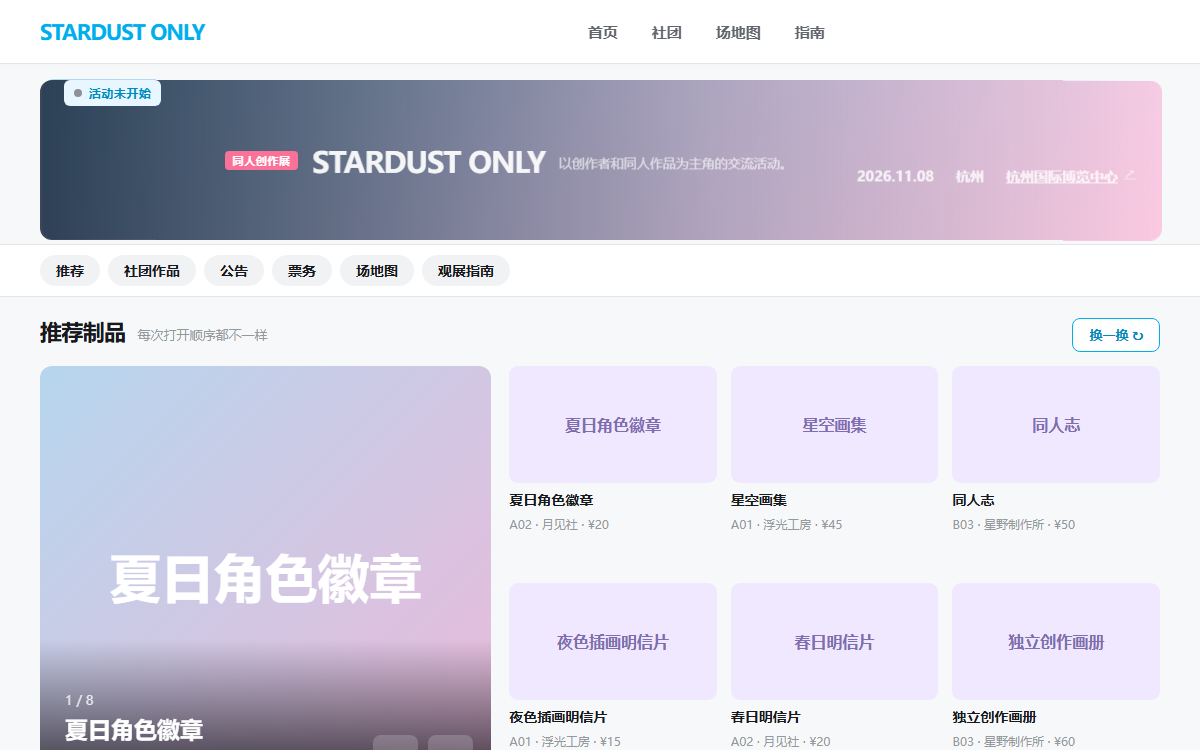
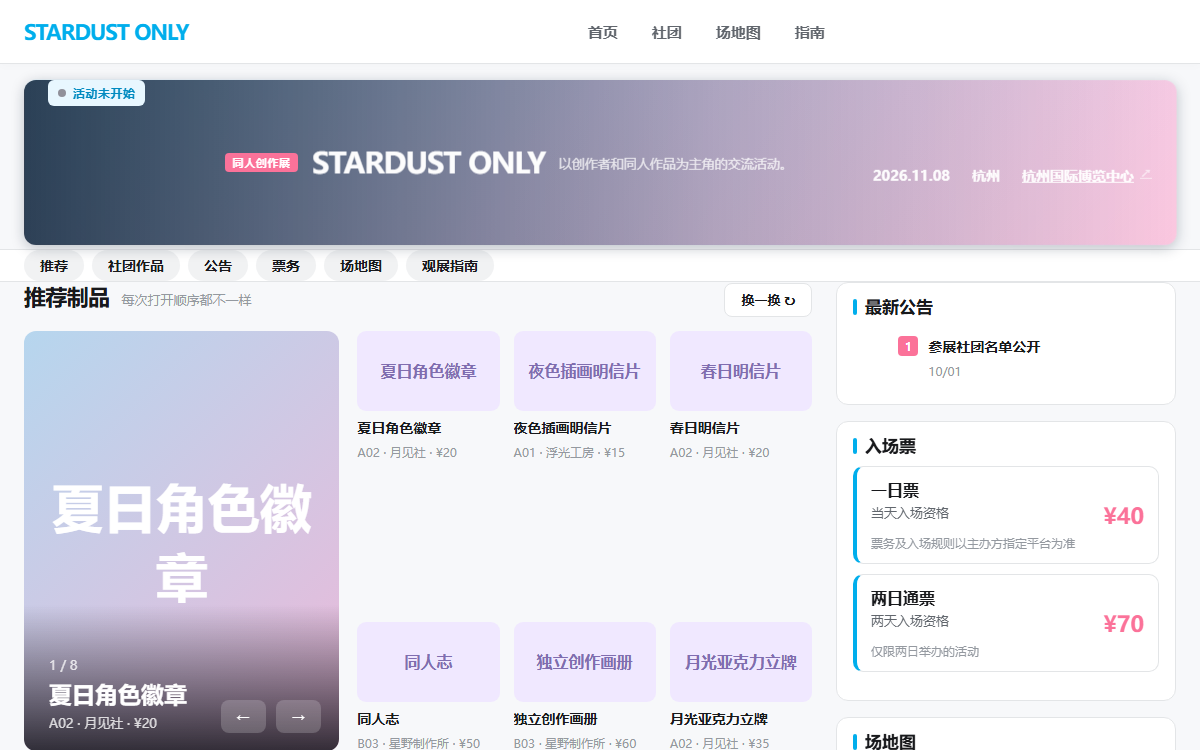
Give templates 03-08 their own page skeletons (feed and rail, panel dashboard, title bars, printed schedule, cafe menu, single column); add a section-layout guard

diff --git a/v8/templates/03-creator-market-preview.js b/v8/templates/03-creator-market-preview.js
@@ -230,7 +230,54 @@ const referenceStyle=`
 .cm-feed-head span{color:var(--cm-soft);font-size:13px}
 .cm-shuffle{margin-left:auto;border:1px solid var(--cm-line);background:#fff;color:var(--cm-ink);border-radius:8px;padding:7px 16px;font-size:13px;font-weight:700;cursor:pointer}
 .cm-shuffle:hover{color:var(--cm-accent-ink);border-color:var(--cm-accent)}
-@media(max-width:800px){.cm-site .nav .wrap>.btn{padding:7px 12px;font-size:12px}.cm-site .nav .links{display:none}.cm-site .hero-art{aspect-ratio:16/9;max-height:none}.cm-site .hero-copy{inset:0 13px;flex-direction:column;align-items:flex-start;justify-content:flex-end;padding:0 14px 12px;background:linear-gradient(transparent,#0c1a2ecc)}.cm-site .hero-copy .meta{display:none}.cm-feed-head span{display:none}.cm-site .event-status-badge{white-space:nowrap;left:12px;top:10px;writing-mode:horizontal-tb}}
+@media(max-width:800px){.cm-site .nav .wrap>.btn{padding:7px 12px;font-size:12px}.cm-site .nav .links{display:none}.cm-site .hero-art{aspect-ratio:16/9;max-height:none}.cm-site .hero-copy{inset:0;flex-direction:column;align-items:flex-start;justify-content:flex-end;padding:0 14px 12px;background:linear-gradient(transparent,#0c1a2ecc)}.cm-site .hero-copy .meta{display:none}.cm-feed-head span{display:none}.cm-site .event-status-badge{white-space:nowrap;left:12px;top:10px;writing-mode:horizontal-tb}}
+
+/* skeleton: a feed column with a side rail, like the home page of a video portal */
+.cm-site main{display:block}
+.cm-cols{display:grid;grid-template-columns:minmax(0,1fr) 340px;gap:24px;align-items:start;max-width:1380px;margin:0 auto;padding:0 24px}
+.cm-cols .wrap{max-width:none;padding:0;margin:0}
+.cm-cols .section,.cm-cols .updates-strip,.cm-cols .cm-spotlight{padding:0;margin:0 0 22px;background:transparent;border:0}
+.cm-feed{min-width:0}
+.cm-rail{position:sticky;top:78px;display:grid;gap:16px;min-width:0}
+.cm-rail .section,.cm-rail .updates-strip{background:#fff;border:1px solid var(--cm-line);border-radius:12px;padding:16px;margin:0}
+.cm-cols .head{margin-bottom:12px}
+.cm-cols .head h2{font-size:17px;letter-spacing:0;display:flex;align-items:center;gap:8px}
+.cm-cols .head h2:before{content:"";width:4px;height:16px;border-radius:2px;background:var(--cm-accent)}
+.cm-cols .head .ey{display:none}
+.cm-feed .section{background:#fff;border:1px solid var(--cm-line);border-radius:12px;padding:16px}
+.cm-feed .cm-spotlight{background:none;border:0;padding:0}
+.cm-rail .updates-list{border:0;border-radius:0;counter-reset:rank;background:none}
+.cm-rail .cm-update{counter-increment:rank;padding:9px 0;gap:10px;align-items:flex-start;flex-wrap:wrap}
+.cm-rail .cm-update:before{content:counter(rank);flex:0 0 20px;height:20px;border-radius:4px;background:#e3e5e7;color:#61666d;font-size:12px;font-weight:800;display:grid;place-items:center}
+.cm-rail .cm-update:nth-child(-n+3):before{background:#fb7299;color:#fff}
+.cm-rail .cm-update-tag{display:none}
+.cm-rail .cm-update b{flex:1 1 0;min-width:0;font-size:14px;line-height:1.5}
+.cm-rail .cm-update time{flex:1 0 100%;padding-left:30px;font-size:12px;margin-top:-4px}
+.cm-rail .ticket-grid{grid-template-columns:1fr;gap:10px}
+.cm-rail .cm-ticket{flex-wrap:wrap;gap:6px 12px;padding:12px 14px}
+.cm-rail .cm-ticket-body{flex:1 1 60%}
+.cm-rail .ticket-actions{margin-top:12px}
+.cm-rail .ticket-actions .btn,.cm-rail .ticket-purchase-link{width:100%;text-align:center;padding:11px 16px}
+.cm-rail .map-explorer{grid-template-columns:1fr}
+.cm-rail .map-static{min-height:190px}
+.cm-rail .map-link-rail{padding:12px}
+.cm-feed .community{grid-template-columns:repeat(auto-fill,minmax(210px,1fr))}
+@media(max-width:1000px){.cm-cols{grid-template-columns:1fr;padding:0 13px}.cm-rail{position:static}}
+
+.cm-site .wrap{width:min(1380px,calc(100% - 48px));max-width:none;padding:0;margin-left:auto;margin-right:auto}
+.cm-cols{width:min(1380px,calc(100% - 48px));max-width:none;padding:0;margin:0 auto}
+.cm-site .spotlight-six{grid-template-rows:none;grid-auto-rows:min-content;align-content:space-between}
+.cm-ticket .oe-ticket-note:before,.cm-ticket .oe-ticket-note:after,.cm-ticket .oe-ticket-gift:before,.cm-ticket .oe-ticket-gift:after{display:none!important}
+.cm-rail .cm-ticket{display:grid;grid-template-columns:minmax(0,1fr) auto;align-items:center;gap:4px 12px}
+.cm-rail .cm-ticket-badge{display:none}
+.cm-rail .cm-ticket-price{grid-column:2;grid-row:1}
+@media(max-width:1000px){.cm-cols,.cm-site .wrap{width:calc(100% - 26px)}}
+
+.cm-cols .wrap{width:auto;margin:0}
+.cm-site .hero-copy{inset:0}
+.cm-site .cm-ticket:before,.cm-site .cm-ticket:after{display:none!important}
+
+.cm-site .kv{box-shadow:0 3px 14px #0c1a2e40}
 `;
 export const previewStyle=coreStyle+marketStyle+referenceStyle;
 
@@ -244,14 +291,17 @@ export const previewBody=`<div class="cm-site">${loader}
 <main id="top">
 <section class="hero"><div class="wrap hero-grid"><div class="hero-art"><div class="kv"><strong class="cm-kv-fallback" data-oe-field="eventName">STARDUST ONLY</strong></div></div><div class="hero-copy"><div class="cm-title"><span class="hero-kicker">同人创作展</span><h1 data-oe-field="eventName">STARDUST ONLY</h1><p data-oe-field="tagline"></p></div><div class="meta"><span class="pill" data-oe-field="date"></span><span class="pill" data-oe-field="location"></span><a class="pill venue-nav" href="#map-home" data-oe-field="edition"></a></div></div></div></section>
 <nav class="cm-channels oe-home-only" aria-label="频道"><div class="wrap"><a href="#spotlight">推荐</a><a href="#booths" data-target-mode="page" data-page-link="booths">社团作品</a><a href="#updates">公告</a><a href="#tickets">票务</a><a href="#map-home">场地图</a><a href="#guide" data-target-mode="page" data-page-link="guide">观展指南</a></div></nav>
+<div class="cm-cols oe-home-only"><div class="cm-feed">
 <section class="cm-spotlight oe-home-only" id="spotlight" aria-label="随机推荐制品"><div class="wrap"><div class="cm-feed-head"><h2>推荐制品</h2><span>每次打开顺序都不一样</span><button type="button" class="cm-shuffle" data-spotlight-shuffle>换一换 ↻</button></div><div data-oe-mount="product-spotlight"></div></div></section>
+<section class="section" id="community"><div class="wrap">${head('COMMUNITY','社群')}<div class="community"></div></div></section>
+<section class="section" id="sponsors"><div class="wrap">${head('SPONSORS','合作伙伴')}<div class="sponsors"></div></div></section>
+</div><aside class="cm-rail" aria-label="公告与票务">
 <section class="updates-strip oe-home-only" id="updates"><div class="wrap">${head('NEWS','最新公告')}<div class="updates-list"></div></div></section>
 <section class="section" id="tickets"><div class="wrap">${head('ADMISSION','入场票')}<div class="ticket-grid"></div><div class="ticket-actions"></div></div></section>
 <section class="section" id="map-home"><div class="wrap">${head('VENUE MAP','场地图')}<div class="map-explorer"><div class="map-static-shell"><div class="map-static" id="venueMap" data-oe-image="venueMap.image"></div></div><aside class="map-link-rail" data-oe-collection="explore"><span class="ey">EXPLORE</span><b>继续探索</b><div class="map-link-list"></div></aside></div></div></section>
+</aside></div>
 <section class="section oe-page-view" id="booths"><div class="wrap">${pageHead('CIRCLES & WORKS','参展社团与制品')}<div class="booth-directory-rich"></div></div></section>
 <section class="section oe-page-view" id="guide"><div class="wrap">${pageHead('GUIDE','观展指南')}<div class="guide-grid guide-detail-grid"></div></div></section>
-<section class="section" id="community"><div class="wrap">${head('COMMUNITY','社群')}<div class="community"></div></div></section>
-<section class="section" id="sponsors"><div class="wrap">${head('SPONSORS','合作伙伴')}<div class="sponsors"></div></div></section>
 </main>
 <footer class="footer"><div class="wrap footer-grid"><div class="footer-brand"></div><div class="footer-participate"></div><div class="footer-visit"></div><div class="footer-social"></div></div></footer>
 </div>`;

diff --git a/v8/templates/04-creator-catalogue-preview.js b/v8/templates/04-creator-catalogue-preview.js
@@ -264,6 +264,26 @@ const referenceStyle=`
 .cc-tabs a:hover{color:#fff}.cc-tabs a.active{color:#fff;border-bottom-color:var(--cc-pink)}
 .cc-site .cc-catalogue{padding-top:22px}
 @media(max-width:820px){.cc-site .hero-art{aspect-ratio:16/9}.cc-site .hero-copy{grid-template-columns:1fr}.cc-site .hero-copy .cc-cta{grid-column:1;grid-row:auto;justify-self:start}}
+
+/* skeleton: a dashboard of titled panels in rows of three and two, like an event information board */
+.cc-site .cc-deck{display:grid;grid-template-columns:repeat(3,minmax(0,1fr));gap:18px;width:min(1180px,calc(100% - 48px));margin:22px auto 0;align-items:start}
+.cc-site .cc-deck2{grid-template-columns:repeat(2,minmax(0,1fr))}
+.cc-site .cc-deck>section{padding:0;margin:0;background:#ffffff0f;border:1px solid #ffffff2e;border-radius:10px;overflow:hidden;box-shadow:none}
+.cc-site .cc-deck>section .wrap{width:auto;max-width:none;padding:0;margin:0}
+.cc-site .cc-deck .head{margin:0;padding:11px 16px;background:#24194d;border-left:4px solid var(--cc-pink);border-bottom:1px solid #ffffff22;display:block;text-align:left}
+.cc-site .cc-deck .head>div{text-align:left;display:block}
+.cc-site .cc-deck .head h2{font-size:15px;letter-spacing:.06em;margin:0;text-align:left;transform:none;text-shadow:none;-webkit-text-stroke:0}
+.cc-site .cc-deck .head .ey{display:none}
+.cc-site .cc-deck .updates-list,.cc-site .cc-deck .ticket-grid,.cc-site .cc-deck .map-explorer,.cc-site .cc-deck .community,.cc-site .cc-deck .sponsors,.cc-site .cc-deck .ticket-actions{padding:14px 16px}
+.cc-site .cc-deck .ticket-actions{padding-top:0}
+.cc-site .cc-deck .ticket-grid{grid-template-columns:1fr;gap:10px}
+.cc-site .cc-deck .map-explorer{grid-template-columns:1fr}
+.cc-site .cc-deck .map-static{min-height:170px}
+.cc-site .cc-deck .community,.cc-site .cc-deck .sponsors{grid-template-columns:repeat(auto-fill,minmax(200px,1fr))}
+@media(max-width:1000px){.cc-site .cc-deck,.cc-site .cc-deck2{grid-template-columns:1fr;width:calc(100% - 26px)}}
+
+@media(min-width:1001px){.cc-site .cc-deck{grid-template-columns:repeat(auto-fit,minmax(300px,1fr))}.cc-site .cc-deck2{grid-template-columns:repeat(auto-fit,minmax(380px,1fr))}}
+.cc-site .cc-ticket:before,.cc-site .cc-ticket:after{display:none!important}
 `;
 export const previewStyle=coreStyle+catalogueStyle+shapeStyle+heroStyle+referenceStyle;
 
@@ -278,13 +298,17 @@ export const previewBody=`<div class="cc-site">${loader}
 <section class="hero"><div class="wrap hero-grid"><div class="hero-art"><span class="cc-sticker one">WEB CATALOGUE</span><div class="kv"><strong class="cc-kv-fallback" data-oe-field="eventName">STARDUST ONLY</strong></div><span class="cc-sticker two">電子場刊 公開中!</span></div><div class="hero-copy"><span class="hero-kicker">电子场刊</span><h1 data-oe-field="eventName">STARDUST ONLY</h1><p data-oe-field="tagline"></p><div class="meta"><span class="pill" data-oe-field="date"></span><span class="pill" data-oe-field="location"></span><a class="pill venue-nav" href="#map-home" data-oe-field="edition"></a></div><a class="cc-cta ticket-purchase-link" href="#tickets">购票 / 预约</a></div></div></section>
 <div class="cc-tabbar oe-home-only"><div class="wrap"><nav class="cc-crumb" aria-label="位置"><a href="#home" data-page-link="home">综合同人展</a><i>›</i><b data-oe-field="eventName">STARDUST ONLY</b></nav><div class="cc-tabs"><a class="active" href="#catalogue">电子场刊</a><a href="#booths" data-target-mode="page" data-page-link="booths">社团 / 作品</a><a href="#map-home">场地图</a><a href="#tickets">票务</a><a href="#guide" data-target-mode="page" data-page-link="guide">观展指南</a></div></div></div>
 <section class="cc-catalogue oe-home-only" id="catalogue" aria-label="电子场刊"><div class="wrap">${head('WEB CATALOGUE · 電子場刊','翻阅电子场刊')}<div data-oe-mount="catalogue-book"></div></div></section>
+<div class="cc-deck oe-home-only">
 <section class="updates-strip oe-home-only" id="updates"><div class="wrap">${head('NEWS','最新公告')}<div class="updates-list"></div></div></section>
 <section class="section" id="tickets"><div class="wrap">${head('ADMISSION','入场票')}<div class="ticket-grid"></div><div class="ticket-actions"></div></div></section>
 <section class="section" id="map-home"><div class="wrap">${head('VENUE MAP','场地图')}<div class="map-explorer"><div class="map-static-shell"><div class="map-static" id="venueMap" data-oe-image="venueMap.image"></div></div><aside class="map-link-rail" data-oe-collection="explore"><span class="ey">EXPLORE</span><b>继续探索</b><div class="map-link-list"></div></aside></div></div></section>
-<section class="section oe-page-view" id="booths"><div class="wrap">${pageHead('CIRCLE LIST','参展社团与制品')}<div class="booth-directory-rich"></div></div></section>
-<section class="section oe-page-view" id="guide"><div class="wrap">${pageHead('GUIDE','观展指南')}<div class="guide-grid guide-detail-grid"></div></div></section>
+</div>
+<div class="cc-deck cc-deck2 oe-home-only">
 <section class="section" id="community"><div class="wrap">${head('COMMUNITY','社群')}<div class="community"></div></div></section>
 <section class="section" id="sponsors"><div class="wrap">${head('SPONSORS','合作伙伴')}<div class="sponsors"></div></div></section>
+</div>
+<section class="section oe-page-view" id="booths"><div class="wrap">${pageHead('CIRCLE LIST','参展社团与制品')}<div class="booth-directory-rich"></div></div></section>
+<section class="section oe-page-view" id="guide"><div class="wrap">${pageHead('GUIDE','观展指南')}<div class="guide-grid guide-detail-grid"></div></div></section>
 </main>
 <footer class="footer"><div class="wrap footer-grid"><div class="footer-brand"></div><div class="footer-participate"></div><div class="footer-visit"></div><div class="footer-social"></div></div></footer>
 </div>`;

diff --git a/v8/templates/07-tea-party-preview.js b/v8/templates/07-tea-party-preview.js
@@ -208,6 +208,26 @@ const referenceStyle=`
 .tp-site .featured-activity-grid{grid-template-rows:none!important;grid-auto-rows:auto!important;align-items:start}
 .tp-site #participation .featured-activity-card,.tp-site #participation .featured-activity-card:first-child{grid-row:auto!important;grid-column:auto!important;height:auto!important;min-height:0!important}
 @media(max-width:820px){.tp-site .nav .links{overflow:auto;justify-content:flex-start}.tp-site .nav .links a{padding:10px 14px}.tp-reserve{width:84px;height:84px;right:10px;bottom:76px}.tp-reserve b{font-size:11px}}
+
+/* skeleton: a cafe menu. Narrow centred sheets, tickets as a priced menu with dotted leaders, the schedule as a dotted timeline, bands that alternate with rounded tops */
+.tp-site .section>.wrap{max-width:900px;width:calc(100% - 44px);margin:0 auto}
+.tp-site #tickets,.tp-site #timetable{background:var(--tp-rose);border-radius:90px 90px 0 0 / 40px 40px 0 0;margin-top:30px;padding:56px 0 64px}
+.tp-site #lineup,.tp-site #map-home{background:var(--tp-mint);border-radius:90px 90px 0 0 / 40px 40px 0 0;margin-top:30px;padding:56px 0 64px}
+.tp-site #community{background:var(--tp-lav);border-radius:90px 90px 0 0 / 40px 40px 0 0;margin-top:30px;padding:56px 0 64px}
+.tp-site #tickets .ticket-grid{display:block;background:var(--tp-paper);border:3px solid var(--tp-brown);border-radius:26px;padding:8px 30px;box-shadow:8px 8px 0 #ffffff99}
+.tp-site #tickets .tp-ticket{display:flex;align-items:flex-end;gap:12px;padding:20px 0;margin:0;border:0;border-bottom:3px dotted var(--tp-line);border-radius:0;background:none;box-shadow:none}
+.tp-site #tickets .tp-ticket:last-child{border-bottom:0}
+.tp-site #tickets .tp-ticket:before{position:static;order:1;flex:1;border:0;border-bottom:3px dotted var(--tp-brown);height:0;margin-bottom:9px;opacity:.45}
+.tp-site #tickets .tp-ticket-main{order:0;flex:0 1 auto}
+.tp-site #tickets .tp-ticket-price{order:2;width:auto;text-align:right;font-size:28px}
+.tp-site #tickets .ticket-actions{justify-content:center;margin-top:22px}
+.tp-site .timeline{position:relative;max-width:640px;margin:0 auto}
+.tp-site .timeline-day{background:none;border:0;box-shadow:none;padding:0}
+.tp-site .timeline-day h3{text-align:center;margin:0 0 14px}
+.tp-site .timeline-row{position:relative;display:grid;grid-template-columns:96px minmax(0,1fr);gap:6px 18px;margin:0 0 8px 18px;padding:12px 16px 12px 24px;background:var(--tp-paper);border:2px solid var(--tp-line);border-left:3px dotted var(--tp-pink);border-radius:0 18px 18px 0}
+.tp-site .timeline-row:before{content:"";position:absolute;left:-12px;top:50%;width:18px;height:18px;margin-top:-9px;border-radius:50%;background:var(--tp-pink);border:4px solid var(--tp-rose)}
+.tp-site .lineup-strip{justify-content:center}
+@media(max-width:700px){.tp-site #tickets .ticket-grid{padding:6px 18px}.tp-site #tickets .tp-ticket-price{font-size:22px}.tp-site .timeline-row{grid-template-columns:70px minmax(0,1fr)}}
 `;
 export const previewStyle=coreStyle+style+heroStyle+referenceStyle;
 export const previewBody=`<div class="tp-site">

diff --git a/v8/templates/08-birthday-preview.js b/v8/templates/08-birthday-preview.js
@@ -239,6 +239,24 @@ const referenceStyle=`
 .bd-site .featured-activity-grid{grid-template-rows:none!important;grid-auto-rows:auto!important;align-items:start}
 .bd-site #participation .featured-activity-card,.bd-site #participation .featured-activity-card:first-child{grid-row:auto!important;grid-column:auto!important;height:auto!important;min-height:0!important}
 @media(max-width:820px){.bd-site .hero:before{height:380px;border-radius:0 0 50% 50% / 0 0 90px 90px}.bd-site .nav .wrap>.btn{position:static}.bd-site .hero-art{width:210px;max-width:210px}}
+
+/* skeleton: one narrow column like a phone page. Every section is its own sticker panel with a tab label, stacked with wide gaps */
+.bd-site main>.section,.bd-site main>.updates-strip,.bd-site main>div>.section{width:min(760px,calc(100% - 28px));margin-left:auto;margin-right:auto;box-sizing:border-box}
+.bd-site .section{margin:34px 0 0;padding:34px 22px 26px;background:var(--bd-paper);border:3px dotted var(--bd-accent);border-radius:34px;position:relative}
+.bd-site .section>.wrap{width:auto;max-width:none;padding:0;margin:0}
+.bd-site .section .head{display:block;margin:0 0 20px;padding:0;border:0!important;text-align:center}
+.bd-site .section .head>div{display:block}
+.bd-site .section .head .ey{position:absolute;left:26px;top:-16px;background:var(--bd-accent);color:#fff;padding:5px 16px;border-radius:999px;font-size:11px;letter-spacing:.16em;transform:rotate(-2deg);margin:0;border:0}
+.bd-site .section .head h2{font-size:clamp(22px,4vw,30px);margin:0;color:var(--bd-ink);text-shadow:none;transform:none}
+.bd-site .section-orbit,.bd-site .section-no{display:none}
+.bd-site .updates-strip{margin:34px 0 0}
+.bd-site .featured-activity-grid,.bd-site .ticket-grid,.bd-site .guest-grid,.bd-site .lineup,.bd-site .community{grid-template-columns:1fr}
+.bd-site .lineup-strip,.bd-site .lineup{display:flex;flex-wrap:wrap;justify-content:center;gap:16px}
+.bd-site .timeline-day{background:none;border:0;padding:0}
+.bd-site .timeline-row{position:relative;border:0;border-left:3px dotted var(--bd-accent);border-radius:0;margin:0 0 6px 10px;padding:10px 12px 10px 24px;background:none}
+.bd-site .timeline-row:before{content:"♥";position:absolute;left:-11px;top:10px;color:var(--bd-accent);font-size:18px;background:var(--bd-paper);line-height:1}
+@media(max-width:560px){.bd-site .section{padding:30px 14px 22px;border-radius:26px}}
+.bd-site .section .head .ey{display:inline-block!important;font-size:11px!important;line-height:1.3!important;color:#fff!important;text-indent:0!important;width:auto!important;height:auto!important}
 `;
 export const previewStyle=coreStyle+style+heroStyle+referenceStyle;
 export const previewBody=`<div class="bd-site">

diff --git a/v8/templates/06-band-live-preview.js b/v8/templates/06-band-live-preview.js
@@ -201,6 +201,25 @@ const referenceStyle=`
 .bl-kv-fallback{font-size:clamp(30px,4.4vw,64px)}
 .bl-site .ribbon{margin:0}
 @media(max-width:820px){.bl-site .hero-grid{grid-template-columns:64px minmax(0,1fr);gap:18px}.bl-site .hero-art{grid-column:1 / -1;order:3;aspect-ratio:4/5;max-height:none;transform:none}.bl-rail{padding-right:12px}.bl-rail b{font-size:22px}}
+
+/* skeleton: a printed schedule. Thick rules between sections, a poster-size heading, and list rows with big index numbers instead of cards */
+.bl-site .section{padding:0 0 44px;margin:0;border:0;border-top:10px solid #111;background:transparent}
+.bl-site .section>.wrap{width:min(1180px,calc(100% - 48px));max-width:none;padding:0;margin:0 auto}
+.bl-site .section .head{display:flex;align-items:flex-end;justify-content:space-between;gap:16px;margin:0 0 6px;padding:26px 0 10px;border:0;border-bottom:4px solid #111}
+.bl-site .section .head>div{display:flex;align-items:flex-end;gap:16px;flex-wrap:wrap}
+.bl-site .section .head h2{font-family:Impact,"Arial Black","PingFang SC","Microsoft YaHei",sans-serif;font-weight:400;font-size:clamp(36px,5.4vw,72px);line-height:.95;letter-spacing:.02em;text-transform:uppercase;margin:0;color:#111;text-shadow:none;transform:none}
+.bl-site .section .head .ey{order:2;background:#111;color:#fff;padding:3px 10px;font-size:11px;letter-spacing:.2em;transform:rotate(-2deg);margin-bottom:8px}
+.bl-site .section-orbit,.bl-site .section-no{display:none}
+.bl-site .lineup,.bl-site .guest-grid{display:block;counter-reset:band}
+.bl-site .lineup-card,.bl-site .guest-card{counter-increment:band;display:grid;grid-template-columns:72px minmax(0,1fr) auto;align-items:center;gap:18px;padding:16px 0;border:0;border-bottom:2px solid #111;border-radius:0;background:none;box-shadow:none;transform:none}
+.bl-site .lineup-card:before,.bl-site .guest-card:before{content:counter(band,decimal-leading-zero);font:400 38px Impact,"Arial Black",sans-serif;color:#111;opacity:.28}
+.bl-site .lineup-card .lineup-img{display:none}
+.bl-site .lineup-card b{font-size:clamp(22px,3vw,38px);line-height:1.1}
+.bl-site .lineup-card small{font-size:12px;letter-spacing:.14em;text-transform:uppercase}
+.bl-site #tickets .ticket-grid{display:block}
+.bl-site #tickets .ticket{margin:0;border-radius:0;border:0;border-bottom:2px solid #111;background:none;box-shadow:none;transform:none}
+.bl-site #tickets .ticket:before,.bl-site #tickets .ticket:after{display:none}
+.bl-site .community,.bl-site .sponsors{display:flex;flex-wrap:wrap;gap:10px 22px}
 `;
 export const previewStyle=coreStyle+style+heroStyle+referenceStyle;
 export const previewBody=`<div class="bl-site">

diff --git a/v8/templates/05-live-poster-preview.js b/v8/templates/05-live-poster-preview.js
@@ -256,6 +256,24 @@ const referenceStyle=`
 .ls-site .timeline-row time{font-size:17px;font-style:normal;font-weight:800}
 .ls-site .timeline-stage{font-size:12px}
 @media(max-width:820px){.ls-site .nav .wrap>.btn{position:static;transform:none;margin-left:10px}.ls-site .nav .wrap{flex-wrap:wrap;gap:10px}.ls-site .hero-grid{grid-template-columns:1fr}.ls-site .hero-art{max-height:380px;aspect-ratio:4/3}.ls-site .timeline-row{grid-template-columns:90px minmax(0,1fr)}.ls-site .timeline-row time{grid-row:auto}}
+
+/* skeleton: every section opens with a full-width title bar; the content sits on a narrower sheet beneath it */
+.ls-site .section{padding:0 0 54px;background:transparent;border:0}
+.ls-site .section>.wrap{width:100%;max-width:none;padding:0;margin:0}
+.ls-site .section .head{position:relative;display:flex;flex-direction:column;justify-content:center;min-height:68px;line-height:1.4;overflow:visible;margin:0 0 28px;padding:12px 22px;text-align:center;border:0;background:linear-gradient(90deg,var(--ls-pink),var(--ls-violet))}
+.ls-site .section .head>div{display:block;text-align:center}
+.ls-site .section .head .ey{display:block;font-size:10px;letter-spacing:.34em;opacity:.85;color:#fff;transform:none;background:none;padding:0;border:0}
+.ls-site .section .head h2{font-size:22px;letter-spacing:.22em;margin:2px 0 0;text-shadow:none;transform:none;color:#fff;-webkit-text-stroke:0}
+.ls-site .section .head h2:before{content:"◆ ";opacity:.8}.ls-site .section .head h2:after{content:" ◆";opacity:.8}
+.ls-site .section .head .section-back{position:absolute;left:22px;top:50%;transform:translateY(-50%);font-size:12px;color:#fff}
+.ls-site .section>.wrap>:not(.head){width:min(1080px,calc(100% - 44px));margin-left:auto;margin-right:auto}
+.ls-site .section-orbit,.ls-site .section-no{display:none}
+.ls-site #tickets .ticket-grid{grid-template-columns:1fr;gap:12px}
+.ls-site .guest-grid,.ls-site .lineup{grid-template-columns:repeat(auto-fill,minmax(210px,1fr))}
+.ls-site .section .head{align-items:center}
+.ls-site .ticket:before{display:none}
+.ls-site .section .head{align-items:center}
+.ls-site .ticket:before{display:none}
 `;
 export const previewStyle=coreStyle+style+referenceStyle;
 export const previewBody=`<div class="ls-site">${loader}
